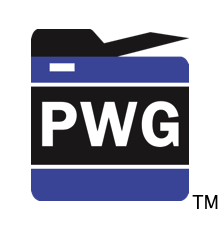
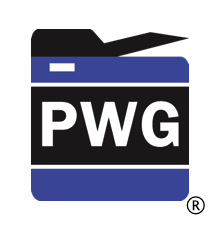
Update meeting page.
Update site template to say that logos are registered trademarks.

Update logo images.

Changed region(s): [[0.8455, 0.8217, 1.0, 0.9435]]

diff --git a/ipp/index.html b/ipp/index.html
@@ -27,7 +27,11 @@
     </ul>
 
     <h2><a name="MINUTES">Conference Call and Meeting Minutes</a></h2>
-    <p class="PWGList"><a href="http://ftp.pwg.org/pub/pwg/ipp/minutes/ippv2-concall-minutes-20150615.pdf">June 15, 2015</a>
+    <p class="PWGList"><a href="http://ftp.pwg.org/pub/pwg/ipp/minutes/ippv2-concall-minutes-20150720.pdf">July 20, 2015</a>
+    &middot;
+    <a href="http://ftp.pwg.org/pub/pwg/ipp/minutes/ippv2-concall-minutes-20150706.pdf">July 6, 2015</a>
+    &middot;
+    <a href="http://ftp.pwg.org/pub/pwg/ipp/minutes/ippv2-concall-minutes-20150615.pdf">June 15, 2015</a>
     &middot;
     <a href="http://ftp.pwg.org/pub/pwg/ipp/minutes/ippv2-concall-minutes-20150601.pdf">June 1, 2015</a>
     &middot;
@@ -108,9 +112,8 @@
     &nbsp;&nbsp;&nbsp;&nbsp;<a href="http://ftp.pwg.org/pub/pwg/ipp/wd/sw-ippeveselfcert10-20140826-ubuntu.tar.gz">BETA Tools for Ubuntu 14.04 LTS (64-bit)</a><br>
     &nbsp;&nbsp;&nbsp;&nbsp;<a href="http://ftp.pwg.org/pub/pwg/ipp/wd/sw-ippeveselfcert10-20140826-windows.msi">BETA Tools for Windows 7</a><br>-->
     &nbsp;&nbsp;&nbsp;&nbsp;<a href="http://ftp.pwg.org/pub/pwg/ipp/examples">PWG Raster Format Sample Files</a><br>
-    <a href="http://ftp.pwg.org/pub/pwg/ipp/wd/wd-ippig20-20150303-rev.pdf">IPP Implementor's Guide 2.0 (March 3, 2015)</a><br>
+    <a href="http://ftp.pwg.org/pub/pwg/ipp/wd/wd-ippig20-20150623-rev.pdf">IPP Implementor's Guide 2.0 (June 23, 2015)</a><br>
     <a href="http://ftp.pwg.org/pub/pwg/ipp/wd/wd-ippsystem10-20150428-rev.pdf">IPP System Control Service (April 28, 2015)</a><br>
-    <a href="http://tools.ietf.org/html/draft-mcdonald-ldap-printer-schema">LDAP Schema for Printer Services</a><br>
     <a href="http://tools.ietf.org/html/draft-sweet-rfc2910bis">RFC2910bis - IPP/1.1: Encoding and Transport</a><br>
     <a href="http://tools.ietf.org/html/draft-sweet-rfc2911bis">RFC2911bis - IPP/1.1: Model and Semantics</a></p>
 
@@ -169,7 +172,6 @@
     <a href="http://tools.ietf.org/html/rfc3391">RFC 3391</a>: The MIME Application/Vnd.pwg-multiplexed Content-Type<br>
     <a href="http://tools.ietf.org/html/rfc3510">RFC 3510</a>: IPP: IPP URL Scheme<br>
     <a href="http://tools.ietf.org/html/rfc3629">RFC 3629</a>: UTF-8 Transformation of ISO 10646<br>
-    <a href="http://tools.ietf.org/html/rfc3712">RFC 3712</a>: LDAP Schema for Printer Services<br>
     <a href="http://tools.ietf.org/html/rfc3805">RFC 3805</a>: Printer MIB v2<br>
     <a href="http://tools.ietf.org/html/rfc3806">RFC 3806</a>: Printer Finishing MIB<br>
     <a href="http://tools.ietf.org/html/rfc3995">RFC 3995</a>: IPP Event Notifications and Subscriptions<br>
@@ -198,9 +200,13 @@
     <a href="http://tools.ietf.org/html/rfc7237">RFC 7237</a>: HTTP/1.1 - Method Registrations</p>
 
     <p><a href="http://tools.ietf.org/html/rfc7472">RFC 7472</a>: IPP over HTTPS Transport Binding and 'ipps' URI Scheme</p>
+
     <p><a href="http://tools.ietf.org/html/rfc7525">RFC 7525</a>: Recommendations for Secure Use of Transport Layer Security (TLS) and Datagram Transport Layer Security (DTLS)<br>
     <a href="http://tools.ietf.org/html/rfc7540">RFC 7540</a>: Hypertext Transfer Protocol Version 2 (HTTP/2)<br>
     <a href="http://tools.ietf.org/html/rfc7541">RFC 7541</a>: HPACK: Header Compression for HTTP/2</p>
+
+    <p><a href="http://tools.ietf.org/html/rfc7612">RFC 7612</a>: LDAP Schema for Printer Services</p>
+
 
     <h2><a name="WHITEPAPERS">Whitepapers</a></h2>
     <p><a href="http://ftp.pwg.org/pub/pwg/ipp/whitepaper/RasterAnalysis-20110922.pdf">An Analysis of Raster Formats for Printing (September 22, 2011)</a></p>

diff --git a/chair/meeting-info/meetings.html b/chair/meeting-info/meetings.html
@@ -8,7 +8,7 @@
 
     <h2>2015 Meetings</h2>
 
-    <table class="standard table table-striped" summary="2014 Meetings">
+    <table class="standard table table-striped" summary="2015 Meetings">
     <thead>
     <tr>
       <th width="33%">Dates</th>
@@ -38,7 +38,47 @@
     <tr>
       <td>November 3-5</td>
       <td>Lexington, KY (hosted by Lexmark)<!--<br>
-      <a href="november_2015_.html">Venue Info + Agenda</a><br>
+      <a href="november_2015_lexington.html">Venue Info + Agenda</a><br>
+      <a href="">RSVP Survey</a>--></td>
+    </tr>
+    </tbody>
+    </table>
+
+    <h2>Proposed 2016 Meetings</h2>
+
+    <table class="standard table table-striped" summary="2016 Meetings">
+    <thead>
+    <tr>
+      <th width="33%">Dates</th>
+      <th width="67%">Location</th>
+    </tr>
+    </thead>
+    <tbody>
+    <tr>
+      <td>February 2-4</td>
+      <td>TBD<!--<br>
+      <a href="february_2016_.html">Venue Info + Agenda</a><br>
+      <a href="">RSVP Survey</a>--></td>
+    </tr>
+
+    <tr>
+      <td>April 26 - 29</td>
+      <td>Sunnyvale, CA (Joint PWG/OpenPrinting, hosted by Apple)<!--<br>
+      <a href="april_2016_sunnyvale.html">Venue Info + Agenda</a><br>
+      <a href="">RSVP Survey</a>--></td>
+    </tr>
+
+    <tr>
+      <td>August 9-11</td>
+      <td>TBD<!--<br>
+      <a href="august_2016_.html">Venue Info + Agenda</a><br>
+      <a href="">RSVP Survey</a>--></td>
+    </tr>
+
+    <tr>
+      <td>October 25-27</td>
+      <td>TBD<!--<br>
+      <a href="october_2016_.html">Venue Info + Agenda</a><br>
       <a href="">RSVP Survey</a>--></td>
     </tr>
     </tbody>

diff --git a/dynamo/phplib/site.php b/dynamo/phplib/site.php
@@ -266,7 +266,7 @@ site_footer($javascript = "")
        ."  <div id=\"pwg-footer-body\">Comments are owned by the poster. All other "
        ."material is Copyright &copy; 2001-$year The Printer Working Group. "
        ."All rights reserved. IPP Everywhere, the IPP Everywhere logo, and the "
-       ."PWG logo are trademarks of the IEEE-ISTO. Please contact the "
+       ."PWG logo are registered trademarks of the IEEE-ISTO. Please contact the "
        ."<a href=\"mailto:$SITE_EMAIL\">PWG Webmaster</a> to report problems "
        ."with this site.</div>\n"
        ."</div>\n"
